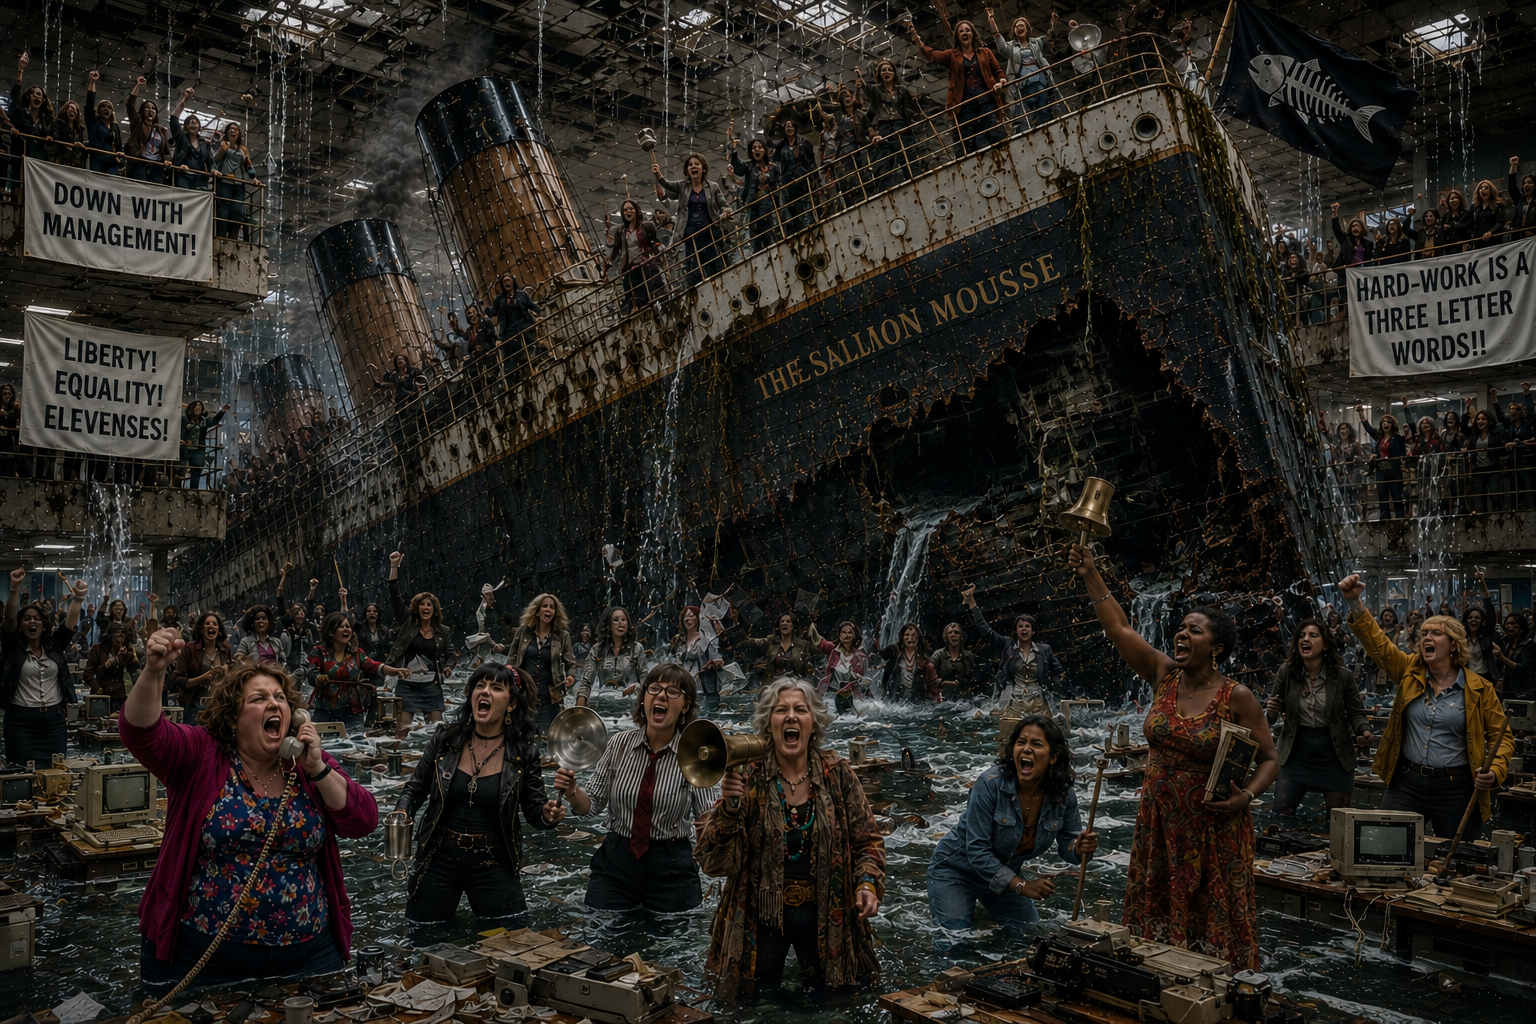
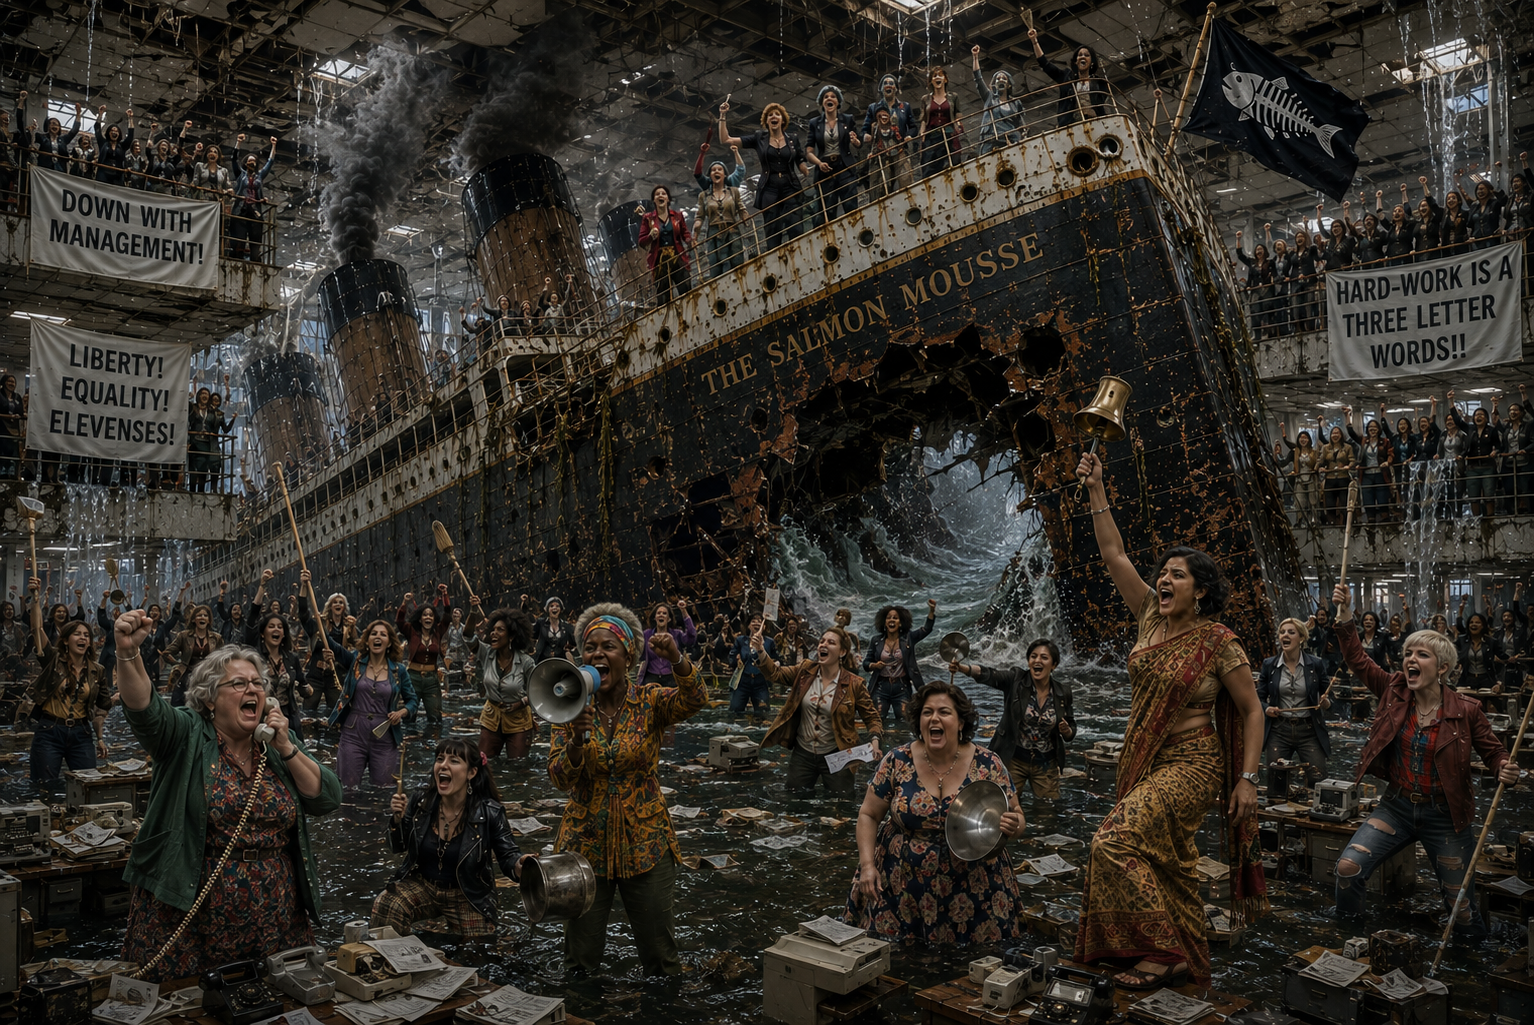
updates

diff --git a/docs/timeline/2026/august.md b/docs/timeline/2026/august.md
@@ -89,4 +89,4 @@ function googleTranslateElementInit() {
 
 ## What a world
 
-- 
+- Thank God for God.
